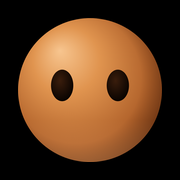
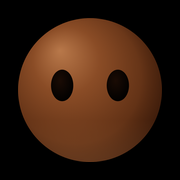
Goccio: espresso colour, earbuds turn with it like ears, optically as big as the G

diff --git a/index.html b/index.html
@@ -49,7 +49,7 @@ if (/iP(hone|ad|od)/.test(navigator.userAgent) || (navigator.platform === "MacIn
 <meta name="twitter:description" content="Every new coffee, with its recipe before you buy. Specialty coffees from over 700 roasters, checked every day, each with the recipe for your brewer and grinder: grind, ratio, temperature and every step.">
 <meta name="twitter:image" content="https://www.goccio.co.uk/og/card-8.png">
 <!-- home screen icon: a white G in ALT Riviera on black (iPhone rounds the corners itself) -->
-<link rel="apple-touch-icon" href="/icons/apple-touch-icon.png?v=6">
+<link rel="apple-touch-icon" href="/icons/apple-touch-icon.png?v=7">
 <meta name="apple-mobile-web-app-title" content="Goccio"><meta name="apple-mobile-web-app-capable" content="yes"><meta name="mobile-web-app-capable" content="yes"><meta name="apple-mobile-web-app-status-bar-style" content="black">
 <link rel="manifest" href="/icons/site.webmanifest"><link rel="alternate" type="application/rss+xml" title="Goccio: new coffees" href="https://www.goccio.co.uk/new/feed.xml">
 <link rel="preload" href="/data/latest.json" as="fetch" crossorigin><link rel="preload" href="/fonts/alt-medium.woff2" as="font" type="font/woff2" crossorigin>
@@ -3264,7 +3264,7 @@ html.no-recipe #coffee{min-height:calc(100svh - var(--top-h, 49px) - var(--bot-h
   <form class="ask-line" id="askForm" role="search" autocomplete="off">
     <label for="askIn" class="ask-q">How do you want your coffee today?</label>
     <div class="ask-box"><div class="ask-sug" id="askSug" hidden></div><input type="search" id="askIn" placeholder="Fruity, under £15" enterkeyhint="search" autocomplete="off" autocorrect="off" autocapitalize="off" spellcheck="false"><button type="submit" class="ask-go" aria-label="Find my coffee"><svg class="ask-lens" viewBox="0 0 16 16" aria-hidden="true"><circle cx="7" cy="7" r="4.6" fill="none" stroke="currentColor" stroke-width="1.8"/><path d="M10.4 10.4l3.6 3.6" stroke="currentColor" stroke-width="1.8" stroke-linecap="round"/></svg><svg class="ask-xi" viewBox="0 0 16 16" aria-hidden="true"><path d="M4 4l8 8M12 4l-8 8" stroke="currentColor" stroke-width="1.8" stroke-linecap="round"/></svg></button></div>
-    <button type="button" class="ask-goccio" id="askGoccio" aria-label="Ask Goccio"><svg viewBox="-20 -20 40 40" aria-hidden="true"><defs><radialGradient id="agFill" gradientUnits="userSpaceOnUse" cx="-3" cy="-4" r="20" fx="-7" fy="-9"><stop offset="0" stop-color="#f7c58f"/><stop offset=".3" stop-color="#e0944f"/><stop offset=".68" stop-color="#b0612a"/><stop offset="1" stop-color="#7a3712"/></radialGradient><radialGradient id="agAO" gradientUnits="userSpaceOnUse" cx="-2" cy="-2" r="16"><stop offset=".72" stop-color="#2a0f02" stop-opacity="0"/><stop offset="1" stop-color="#2a0f02" stop-opacity=".38"/></radialGradient></defs><g class="ag-b"><circle r="15" fill="url(#agFill)"/><circle r="15" fill="url(#agAO)"/><g class="ag-e"><ellipse cx="-5" cy="-1" rx="2.3" ry="3.2"/><ellipse cx="5" cy="-1" rx="2.3" ry="3.2"/></g></g></svg></button>
+    <button type="button" class="ask-goccio" id="askGoccio" aria-label="Ask Goccio"><svg viewBox="-20 -20 40 40" aria-hidden="true"><defs><radialGradient id="agFill" gradientUnits="userSpaceOnUse" cx="-3" cy="-4" r="20" fx="-7" fy="-9"><stop offset="0" stop-color="#b8784a"/><stop offset=".3" stop-color="#8a4c26"/><stop offset=".68" stop-color="#5e2f14"/><stop offset="1" stop-color="#3d1a0a"/></radialGradient><radialGradient id="agAO" gradientUnits="userSpaceOnUse" cx="-2" cy="-2" r="16"><stop offset=".72" stop-color="#140600" stop-opacity="0"/><stop offset="1" stop-color="#140600" stop-opacity=".45"/></radialGradient></defs><g class="ag-b"><circle r="15" fill="url(#agFill)"/><circle r="15" fill="url(#agAO)"/><g class="ag-e"><ellipse cx="-5" cy="-1" rx="2.3" ry="3.2"/><ellipse cx="5" cy="-1" rx="2.3" ry="3.2"/></g></g></svg></button>
   </form>
   <div class="sec-list" id="secList" inert aria-hidden="true"><div class="sec-list-in"><button type="button" class="sec-p" data-jump="shelves" data-sec="shelves">Coffees</button><button type="button" class="sec-p" data-jump="bags" data-sec="bags">My bags</button><button type="button" class="sec-p" data-jump="coffee" data-sec="coffee">What’s brewing?</button><button type="button" class="sec-p" data-jump="recipe" data-sec="recipe">Recipe</button><button type="button" class="sec-p" data-jump="journal" data-sec="journal">Journal</button></div></div>
 </header>
@@ -3383,7 +3383,7 @@ html.no-recipe #coffee{min-height:calc(100svh - var(--top-h, 49px) - var(--bot-h
       </details>
       <input type="file" accept="image/*" capture="environment" id="roastPhotoIn" hidden>
     </div>
-    <p class="wb-sign"><span class="gdrop" id="gdrop" role="button" tabindex="0" aria-label="Ask Goccio about coffee" aria-expanded="false"><svg viewBox="-32 -56 64 60" aria-hidden="true"><defs><radialGradient id="gdFill" gradientUnits="userSpaceOnUse" cx="-2" cy="-17" r="24" fx="-6.5" fy="-24"><stop offset="0" stop-color="#f7c58f"/><stop offset=".3" stop-color="#e0944f"/><stop offset=".68" stop-color="#b0612a"/><stop offset="1" stop-color="#7a3712"/></radialGradient><radialGradient id="gdAO" gradientUnits="userSpaceOnUse" cx="-3" cy="-18" r="20"><stop offset=".7" stop-color="#2a0f02" stop-opacity="0"/><stop offset="1" stop-color="#2a0f02" stop-opacity=".38"/></radialGradient><linearGradient id="gdBnc" gradientUnits="userSpaceOnUse" x1="0" y1="-9" x2="0" y2="0"><stop offset="0" stop-color="#ffc58c" stop-opacity="0"/><stop offset="1" stop-color="#ffc58c" stop-opacity=".22"/></linearGradient><radialGradient id="gdEye" cx=".4" cy=".35" r=".7"><stop offset="0" stop-color="#3a1d0c"/><stop offset="1" stop-color="#060200"/></radialGradient><radialGradient id="gdPod" cx=".35" cy=".3" r=".8"><stop offset="0" stop-color="#ffffff"/><stop offset=".55" stop-color="#eeeef1"/><stop offset="1" stop-color="#b9b9c3"/></radialGradient><linearGradient id="gdFoneG" x1="0" y1="0" x2="1" y2="1"><stop offset="0" stop-color="#3a3a3e"/><stop offset=".5" stop-color="#18181a"/><stop offset="1" stop-color="#050505"/></linearGradient><radialGradient id="gdShadow"><stop offset="0" stop-color="#000" stop-opacity=".45"/><stop offset="1" stop-color="#000" stop-opacity="0"/></radialGradient><radialGradient id="gdBlush"><stop offset="0" stop-color="#ff7a8f" stop-opacity=".95"/><stop offset=".45" stop-color="#f2557a" stop-opacity=".55"/><stop offset="1" stop-color="#e0446c" stop-opacity="0"/></radialGradient><radialGradient id="gdGlow"><stop offset="0" stop-color="#bfe3ff" stop-opacity=".55"/><stop offset="1" stop-color="#bfe3ff" stop-opacity="0"/></radialGradient></defs><g class="gd-all"><path class="gd-arm" d=""/><path class="gd-arm" d=""/><ellipse class="gd-sh" cx="0" cy=".6" rx="13" ry="2.4" fill="url(#gdShadow)"/><path class="gd-b" d=""/><path class="gd-ao" d="" fill="url(#gdAO)"/><path class="gd-bn" d="" fill="url(#gdBnc)"/><path class="gd-butt" d=""/><ellipse class="gd-h" cx="0" cy="0" rx="3.4" ry="1.9"/><g class="gd-e"><ellipse class="gd-l" cx="-6" cy="-12" rx="2.4" ry="3.4"/><ellipse class="gd-r" cx="6" cy="-12" rx="2.4" ry="3.4"/><path class="gd-a" d="M -8.6 -11 Q -6 -14.6 -3.4 -11"/><path class="gd-a" d="M 3.4 -11 Q 6 -14.6 8.6 -11"/><ellipse class="gd-bl" cx="-8.7" cy="-6.3" rx="3.4" ry="2.3"/><ellipse class="gd-bl" cx="8.7" cy="-6.3" rx="3.4" ry="2.3"/></g><g class="gd-ph"><g class="gd-pod l"><ellipse class="pd-s" cx=".7" cy=".9" rx="2" ry="1.7"/><ellipse rx="2" ry="1.85"/></g><g class="gd-pod r"><ellipse class="pd-s" cx="-.7" cy=".9" rx="2" ry="1.7"/><ellipse rx="2" ry="1.85"/></g></g><ellipse class="gd-glow" cx="0" cy="-9" rx="12" ry="9" fill="url(#gdGlow)"/><g class="gd-fone"><rect class="gd-fone-b" x="-4" y="-6" width="8" height="12.5" rx="1.6"/><rect class="gd-fone-cam" x="-3.2" y="-5.2" width="3.3" height="3.3" rx=".9"/><circle class="gd-fone-l" cx="-2.35" cy="-4.35" r=".62"/><circle class="gd-fone-l" cx="-.75" cy="-4.35" r=".62"/><circle class="gd-fone-l" cx="-2.35" cy="-2.75" r=".62"/><circle class="gd-fone-f" cx="-.75" cy="-2.75" r=".3"/><rect class="gd-fone-sh" x="2.4" y="-5.4" width=".55" height="10.8" rx=".27"/></g></g><g class="gd-n"></g></svg></span><span class="gd-hint" id="gdHint" hidden>Hi, I’m Goccio and I answer your coffee questions.</span><span class="gd-talk" id="gdTalk" role="dialog" aria-label="Goccio" hidden><button type="button" class="gd-x" id="gdX" aria-label="Close"><svg viewBox="0 0 16 16" aria-hidden="true"><path d="M4 4l8 8M12 4l-8 8" fill="none" stroke="currentColor" stroke-width="1.8" stroke-linecap="round"/></svg></button><span class="gd-say" id="gdSay" aria-live="polite"></span><span class="gd-chips" id="gdChips"></span><span class="gd-ask"><input id="gdIn" type="text" enterkeyhint="send" autocomplete="off" placeholder="Ask Goccio about coffee" aria-label="Ask Goccio"><button type="button" id="gdMic" aria-label="Ask out loud" hidden><svg viewBox="0 0 16 16" aria-hidden="true"><path d="M2 6.5v3M5 4v8M8 2v12M11 4.5v7M14 6.5v3" fill="none" stroke="currentColor" stroke-width="1.7" stroke-linecap="round"/></svg></button><button type="button" id="gdGo" aria-label="Ask"><svg viewBox="0 0 16 16" aria-hidden="true"><path d="M3 8h10M9 4l4 4-4 4" fill="none" stroke="currentColor" stroke-width="1.8" stroke-linecap="round" stroke-linejoin="round"/></svg></button></span></span>Brew something good.</p>
+    <p class="wb-sign"><span class="gdrop" id="gdrop" role="button" tabindex="0" aria-label="Ask Goccio about coffee" aria-expanded="false"><svg viewBox="-32 -56 64 60" aria-hidden="true"><defs><radialGradient id="gdFill" gradientUnits="userSpaceOnUse" cx="-2" cy="-17" r="24" fx="-6.5" fy="-24"><stop offset="0" stop-color="#b8784a"/><stop offset=".3" stop-color="#8a4c26"/><stop offset=".68" stop-color="#5e2f14"/><stop offset="1" stop-color="#3d1a0a"/></radialGradient><radialGradient id="gdAO" gradientUnits="userSpaceOnUse" cx="-3" cy="-18" r="20"><stop offset=".7" stop-color="#140600" stop-opacity="0"/><stop offset="1" stop-color="#140600" stop-opacity=".32"/></radialGradient><linearGradient id="gdBnc" gradientUnits="userSpaceOnUse" x1="0" y1="-9" x2="0" y2="0"><stop offset="0" stop-color="#d9935b" stop-opacity="0"/><stop offset="1" stop-color="#d9935b" stop-opacity=".2"/></linearGradient><radialGradient id="gdEye" cx=".4" cy=".35" r=".7"><stop offset="0" stop-color="#1a0b04"/><stop offset="1" stop-color="#000"/></radialGradient><radialGradient id="gdPod" cx=".35" cy=".3" r=".8"><stop offset="0" stop-color="#ffffff"/><stop offset=".55" stop-color="#eeeef1"/><stop offset="1" stop-color="#b9b9c3"/></radialGradient><linearGradient id="gdFoneG" x1="0" y1="0" x2="1" y2="1"><stop offset="0" stop-color="#3a3a3e"/><stop offset=".5" stop-color="#18181a"/><stop offset="1" stop-color="#050505"/></linearGradient><radialGradient id="gdShadow"><stop offset="0" stop-color="#000" stop-opacity=".45"/><stop offset="1" stop-color="#000" stop-opacity="0"/></radialGradient><radialGradient id="gdBlush"><stop offset="0" stop-color="#ff7a8f" stop-opacity=".95"/><stop offset=".45" stop-color="#f2557a" stop-opacity=".55"/><stop offset="1" stop-color="#e0446c" stop-opacity="0"/></radialGradient><radialGradient id="gdGlow"><stop offset="0" stop-color="#bfe3ff" stop-opacity=".55"/><stop offset="1" stop-color="#bfe3ff" stop-opacity="0"/></radialGradient></defs><g class="gd-all"><path class="gd-arm" d=""/><path class="gd-arm" d=""/><ellipse class="gd-sh" cx="0" cy=".6" rx="13" ry="2.4" fill="url(#gdShadow)"/><path class="gd-b" d=""/><path class="gd-ao" d="" fill="url(#gdAO)"/><path class="gd-bn" d="" fill="url(#gdBnc)"/><path class="gd-butt" d=""/><ellipse class="gd-h" cx="0" cy="0" rx="3.4" ry="1.9"/><g class="gd-e"><ellipse class="gd-l" cx="-6" cy="-12" rx="2.4" ry="3.4"/><ellipse class="gd-r" cx="6" cy="-12" rx="2.4" ry="3.4"/><path class="gd-a" d="M -8.6 -11 Q -6 -14.6 -3.4 -11"/><path class="gd-a" d="M 3.4 -11 Q 6 -14.6 8.6 -11"/><ellipse class="gd-bl" cx="-8.7" cy="-6.3" rx="3.4" ry="2.3"/><ellipse class="gd-bl" cx="8.7" cy="-6.3" rx="3.4" ry="2.3"/></g><g class="gd-ph"><g class="gd-pod l"><ellipse class="pd-s" cx=".7" cy=".9" rx="2" ry="1.7"/><ellipse rx="2" ry="1.85"/></g><g class="gd-pod r"><ellipse class="pd-s" cx="-.7" cy=".9" rx="2" ry="1.7"/><ellipse rx="2" ry="1.85"/></g></g><ellipse class="gd-glow" cx="0" cy="-9" rx="12" ry="9" fill="url(#gdGlow)"/><g class="gd-fone"><rect class="gd-fone-b" x="-4" y="-6" width="8" height="12.5" rx="1.6"/><rect class="gd-fone-cam" x="-3.2" y="-5.2" width="3.3" height="3.3" rx=".9"/><circle class="gd-fone-l" cx="-2.35" cy="-4.35" r=".62"/><circle class="gd-fone-l" cx="-.75" cy="-4.35" r=".62"/><circle class="gd-fone-l" cx="-2.35" cy="-2.75" r=".62"/><circle class="gd-fone-f" cx="-.75" cy="-2.75" r=".3"/><rect class="gd-fone-sh" x="2.4" y="-5.4" width=".55" height="10.8" rx=".27"/></g></g><g class="gd-n"></g></svg></span><span class="gd-hint" id="gdHint" hidden>Hi, I’m Goccio and I answer your coffee questions.</span><span class="gd-talk" id="gdTalk" role="dialog" aria-label="Goccio" hidden><button type="button" class="gd-x" id="gdX" aria-label="Close"><svg viewBox="0 0 16 16" aria-hidden="true"><path d="M4 4l8 8M12 4l-8 8" fill="none" stroke="currentColor" stroke-width="1.8" stroke-linecap="round"/></svg></button><span class="gd-say" id="gdSay" aria-live="polite"></span><span class="gd-chips" id="gdChips"></span><span class="gd-ask"><input id="gdIn" type="text" enterkeyhint="send" autocomplete="off" placeholder="Ask Goccio about coffee" aria-label="Ask Goccio"><button type="button" id="gdMic" aria-label="Ask out loud" hidden><svg viewBox="0 0 16 16" aria-hidden="true"><path d="M2 6.5v3M5 4v8M8 2v12M11 4.5v7M14 6.5v3" fill="none" stroke="currentColor" stroke-width="1.7" stroke-linecap="round"/></svg></button><button type="button" id="gdGo" aria-label="Ask"><svg viewBox="0 0 16 16" aria-hidden="true"><path d="M3 8h10M9 4l4 4-4 4" fill="none" stroke="currentColor" stroke-width="1.8" stroke-linecap="round" stroke-linejoin="round"/></svg></button></span></span>Brew something good.</p>
   </section>
 
   <section class="sec" id="recipe" aria-labelledby="rtitle">
@@ -9987,9 +9987,9 @@ html.no-recipe #coffee{min-height:calc(100svh - var(--top-h, 49px) - var(--bot-h
       const ph = el.querySelector(".gd-ph"); ph.style.opacity = S.phones.toFixed(2);
       // earbuds: a little white bud on each side at the height of its eyes, stems pointing down towards where a mouth would be; they pop in from above
       if (S.phones > 0.01) { const hh = 2 * R0 * Math.max(0.3, 1 + a), ww = 2 * R0 / Math.sqrt(Math.max(0.3, 1 + a)), lx = lean, cyp = y - hh * 0.52, ex2 = ww / 2 - 0.4, drop = (1 - S.phones) * -8, hide = Math.abs(Math.sin(S.turn * Math.PI));
-        const pl = el.querySelector(".gd-pod.l"), pr = el.querySelector(".gd-pod.r");
-        pl.setAttribute("transform", `translate(${(-ex2 + lx * 0.35).toFixed(2)} ${(cyp + drop).toFixed(2)}) rotate(-16)`); pr.setAttribute("transform", `translate(${(ex2 + lx * 0.35).toFixed(2)} ${(cyp + drop).toFixed(2)}) rotate(16)`);
-        pl.style.opacity = pr.style.opacity = (1 - hide * 0.7).toFixed(2); }
+        // each is an ear on the ball: a quarter turn from the face on either side, so when it spins they go round with it, out of sight behind it and back
+        const th = S.turn * Math.PI; [[".gd-pod.l", -1], [".gd-pod.r", 1]].forEach(([sel, sd]) => { const pe = el.querySelector(sel), an = th + sd * Math.PI / 2, px = ex2 * Math.sin(an), pz = Math.cos(an);
+          pe.setAttribute("transform", `translate(${(px + lx * 0.35).toFixed(2)} ${(cyp + drop).toFixed(2)})`); pe.style.opacity = Math.max(0, Math.min(1, (pz + 0.3) / 0.3)).toFixed(2); }); }
       // its phone: held low in front, screen lit; the light tints its eyes and lights its face from below
       { const fo = el.querySelector(".gd-fone"), gl = el.querySelector(".gd-glow"); if (fo) { fo.style.opacity = S.fone.toFixed(2); fo.setAttribute("transform", `translate(${(lean * 0.4).toFixed(2)} ${(y - 3.5 + (1 - S.fone) * 9).toFixed(2)}) rotate(${(-8 + lean * 0.6).toFixed(1)})`);
           const fsh = el.querySelector(".gd-fone-sh"); if (fsh) fsh.style.opacity = (0.18 + 0.12 * Math.sin(S.scroll * Math.PI)).toFixed(2); }   /* its back faces you: you only see it light up the face */
@@ -11187,7 +11187,7 @@ html.no-recipe #coffee{min-height:calc(100svh - var(--top-h, 49px) - var(--bot-h
     // as big as the G of the Goccio wordmark at the top, measured with the browser's own text metrics (the drop's body is about 50.4 px at --gs 1),
     // with room made above it under Load more so the sign-off never moves
     const sizeUp = () => { const w = $("wm"); if (!w) return; const cs = getComputedStyle(w), c = document.createElement("canvas").getContext("2d"); c.font = `${cs.fontWeight} ${cs.fontSize} ${cs.fontFamily}`;
-      const m = c.measureText("G"), g = m.actualBoundingBoxAscent + m.actualBoundingBoxDescent; if (!(g > 20)) return; document.documentElement.style.setProperty("--gs", (g / 50.4).toFixed(3)); };
+      const m = c.measureText("G"), g = m.actualBoundingBoxAscent + m.actualBoundingBoxDescent; if (!(g > 20)) return; document.documentElement.style.setProperty("--gs", (g / 50.4 * 1.15).toFixed(3)); };   /* a ball looks smaller than a letter of the same height, and its dark edge melts into the black page: 15% more makes it read as tall as the G */
     sizeUp(); addEventListener("resize", sizeUp, { passive: true }); if (document.fonts && document.fonts.ready) document.fonts.ready.then(sizeUp);
     // its usual fall comes first (when it is well in view), then the hello
     const enter = async () => { await wait(1300); for (let i = 0; i < 60 && !D.landed(); i++) await wait(50); };

diff --git a/list/index.html b/list/index.html
@@ -5,7 +5,7 @@
 <meta name="description" content="List your roastery's coffees on Goccio for free: every new coffee in the daily list, a recipe for each one, and a page per coffee for search engines.">
 <link rel="canonical" href="https://www.goccio.co.uk/list/">
 <meta property="og:title" content="Get your roastery listed"><meta property="og:image" content="https://www.goccio.co.uk/og/card-8.png">
-<link rel="icon" type="image/png" sizes="32x32" href="/icons/favicon-32.png?v=3"><link rel="apple-touch-icon" href="/apple-touch-icon.png?v=6"><meta name="apple-mobile-web-app-title" content="Goccio">
+<link rel="icon" type="image/png" sizes="32x32" href="/icons/favicon-32.png?v=3"><link rel="apple-touch-icon" href="/apple-touch-icon.png?v=7"><meta name="apple-mobile-web-app-title" content="Goccio">
 <style>
 :root{--bg:#fff;--ink:#000;--muted:#808080;--rule:#e3e3e3;--line:#a6a6a6;--pill:#e6e6e6;--hl:#ff4f00;
 --sans:"ALT Riviera","Helvetica Neue",Helvetica,Arial,-apple-system,BlinkMacSystemFont,system-ui,sans-serif}

diff --git a/privacy/index.html b/privacy/index.html
@@ -5,7 +5,7 @@
 <meta name="description" content="What Goccio keeps, and where: no accounts, no cookies, no tracking. Everything you save stays on your device; only how a brew tasted is counted, anonymously.">
 <link rel="canonical" href="https://www.goccio.co.uk/privacy/">
 <meta property="og:title" content="Privacy"><meta property="og:image" content="https://www.goccio.co.uk/og/card-8.png">
-<link rel="icon" type="image/png" sizes="32x32" href="/icons/favicon-32.png?v=3"><link rel="apple-touch-icon" href="/apple-touch-icon.png?v=6"><meta name="apple-mobile-web-app-title" content="Goccio">
+<link rel="icon" type="image/png" sizes="32x32" href="/icons/favicon-32.png?v=3"><link rel="apple-touch-icon" href="/apple-touch-icon.png?v=7"><meta name="apple-mobile-web-app-title" content="Goccio">
 <style>
 :root{--bg:#fff;--ink:#000;--muted:#808080;--rule:#e3e3e3;--line:#a6a6a6;--pill:#e6e6e6;--hl:#ff4f00;
 --sans:"ALT Riviera","Helvetica Neue",Helvetica,Arial,-apple-system,BlinkMacSystemFont,system-ui,sans-serif}
